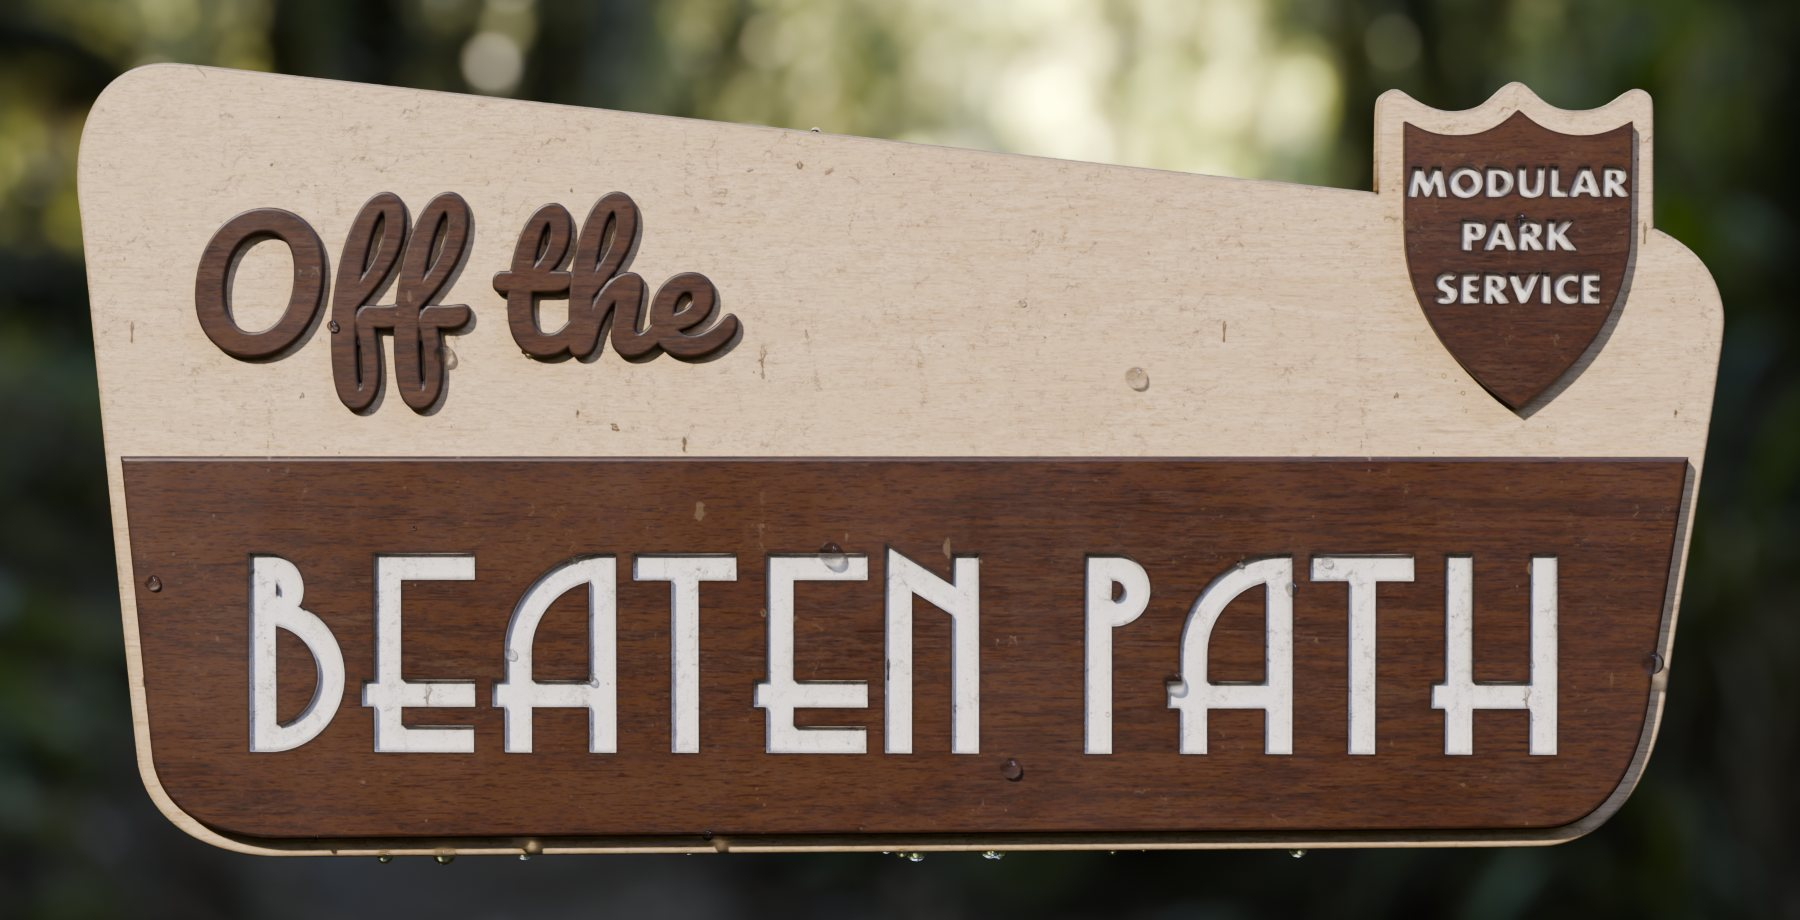
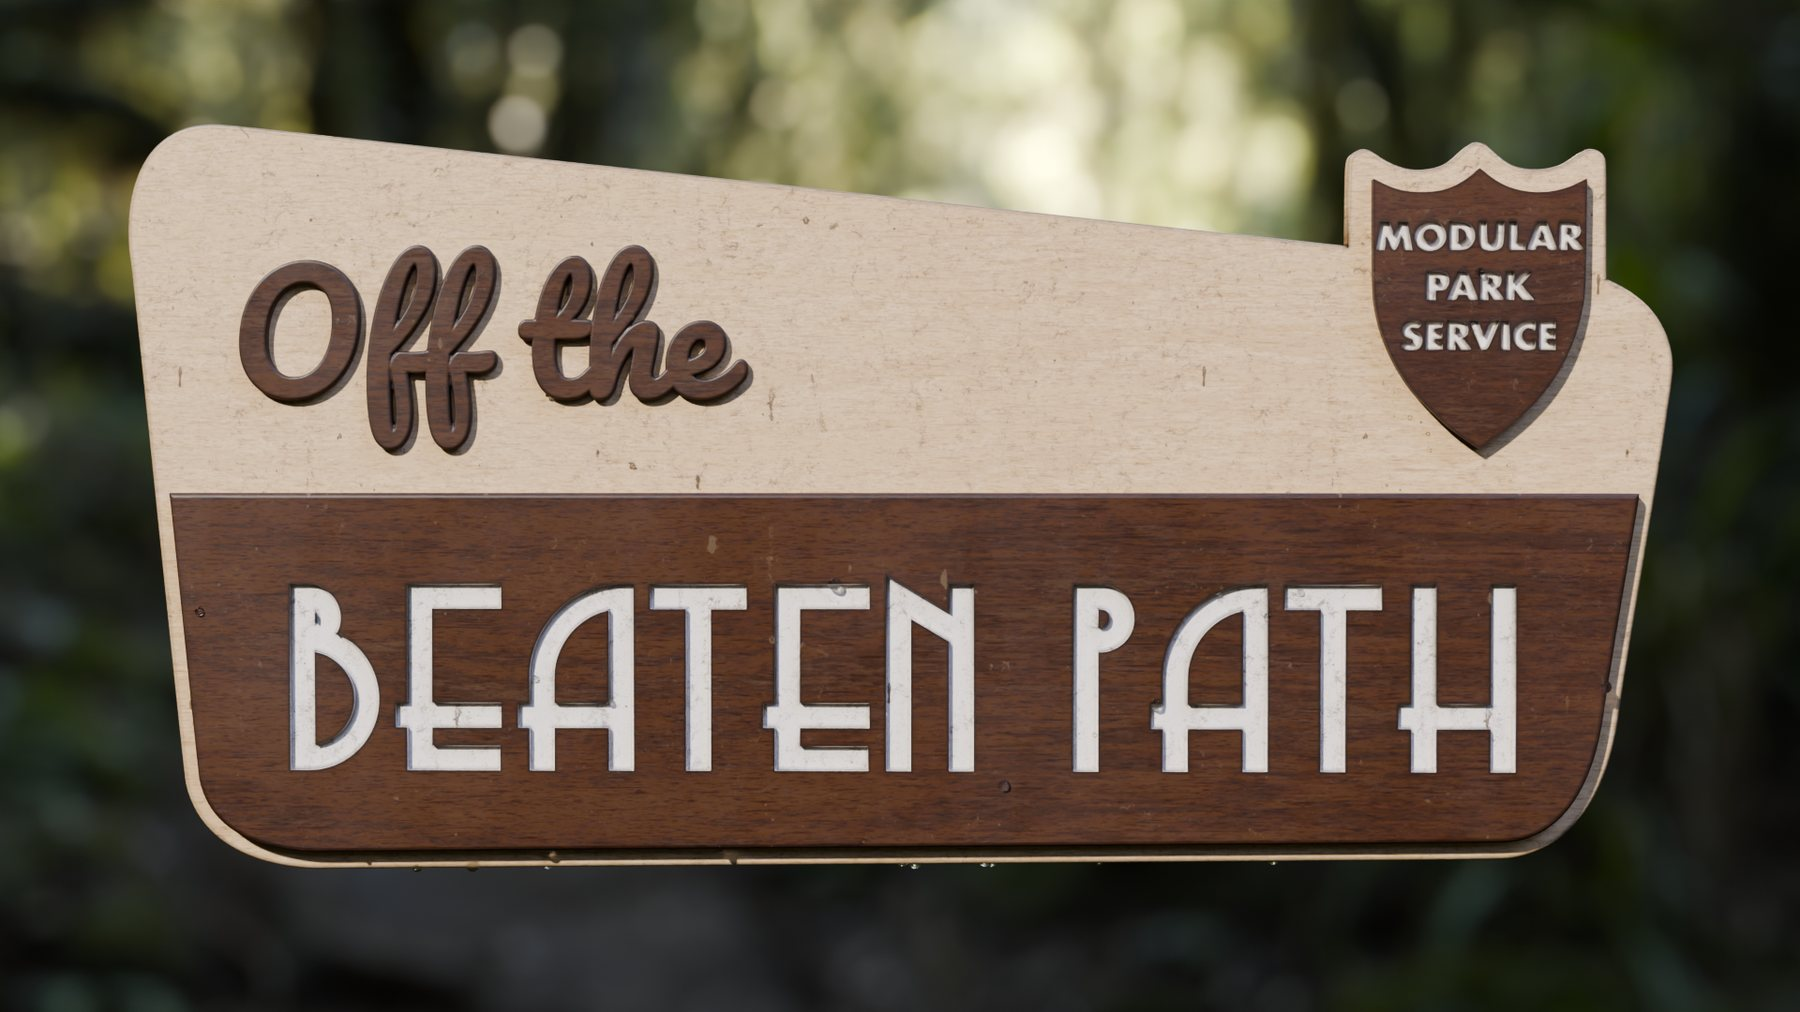
MPS: enable Blender sweep (9 frames, crossfaded), new neutral-pose still

diff --git a/assets/css/mps.css b/assets/css/mps.css
@@ -6,8 +6,8 @@ body{margin:0;background:var(--forest);color:var(--cream);font:1.05rem/1.65 var(
 
 .hero{position:relative;min-height:100vh;min-height:100svh;display:flex;align-items:center;justify-content:center;padding:1rem 1rem 3.5rem;line-height:0}
 .hero img,.hero canvas{display:block;width:min(100%,1400px);height:auto;max-height:calc(100svh - 5rem);object-fit:contain;
- -webkit-mask-image:linear-gradient(to right,transparent,#000 8%,#000 92%,transparent),linear-gradient(to bottom,transparent,#000 6%,#000 90%,transparent);
- -webkit-mask-composite:source-in;mask-image:linear-gradient(to right,transparent,#000 8%,#000 92%,transparent),linear-gradient(to bottom,transparent,#000 6%,#000 90%,transparent);mask-composite:intersect}
+ -webkit-mask-image:linear-gradient(to right,transparent,#000 6%,#000 94%,transparent),linear-gradient(to bottom,transparent,#000 5%,#000 94%,transparent);
+ -webkit-mask-composite:source-in;mask-image:linear-gradient(to right,transparent,#000 6%,#000 94%,transparent),linear-gradient(to bottom,transparent,#000 5%,#000 94%,transparent);mask-composite:intersect}
 .hero img,.hero canvas{will-change:transform;transform-origin:50% 50%}
 .hero{perspective:none;overflow:hidden}
 .scroll-cue{position:absolute;left:50%;bottom:1.25rem;transform:translateX(-50%);font-size:.72rem;letter-spacing:.22em;text-transform:uppercase;color:rgba(244,221,186,.6);text-decoration:none;line-height:1.4;text-align:center}

diff --git a/mps/index.html b/mps/index.html
@@ -3,7 +3,7 @@ layout: mps
 title: Modular Park Service
 description: Modules for VCV Rack, named for the national parks.
 sitemap: false
-sweep_frames: 0   # set to the number of frames in assets/images/mps/sweep/ (f_0000.webp ...) to enable the Blender sweep
+sweep_frames: 9   # set to the number of frames in assets/images/mps/sweep/ (f_0000.webp ...) to enable the Blender sweep
 ---
 {% assign modules = site.mps | sort: "order" %}
 <section class="hero" data-sweep-frames="{{ page.sweep_frames | default: 0 }}" data-sweep-path="{{ '/assets/images/mps/sweep/' | relative_url }}">
@@ -11,7 +11,7 @@ sweep_frames: 0   # set to the number of frames in assets/images/mps/sweep/ (f_0
        srcset="{{ '/assets/images/mps/sign-640.jpg' | relative_url }} 640w,
                {{ '/assets/images/mps/sign-1280.jpg' | relative_url }} 1280w,
                {{ '/assets/images/mps/sign-1800.jpg' | relative_url }} 1800w"
-       sizes="(min-width: 1300px) 1300px, 100vw" width="1800" height="920"
+       sizes="(min-width: 1300px) 1300px, 100vw" width="1920" height="1080"
        alt="Wooden park sign reading Off the Beaten Path, with the Modular Park Service shield">
   <a class="scroll-cue" href="#modules">Modules</a>
 </section>

diff --git a/assets/js/mps.js b/assets/js/mps.js
@@ -73,10 +73,12 @@
         c.width = imgs[0].naturalWidth; c.height = imgs[0].naturalHeight;
         c.className = sign.className; c.setAttribute('role', 'img'); c.setAttribute('aria-label', sign.alt);
         var g = c.getContext('2d');
+        var RANGE = 0.7;                       // fraction of the rendered sweep the pointer can reach
         function draw(x) {
-          var k = Math.round((x + 1) / 2 * (nFrames - 1));
-          k = Math.max(0, Math.min(nFrames - 1, k));
-          g.drawImage(imgs[k], 0, 0);
+          var u = (Math.max(-1, Math.min(1, x * RANGE)) + 1) / 2 * (nFrames - 1);
+          var k = Math.min(nFrames - 2, Math.floor(u)), f = u - k;
+          g.globalAlpha = 1; g.drawImage(imgs[k], 0, 0);
+          if (f > 0.001) { g.globalAlpha = f; g.drawImage(imgs[k + 1], 0, 0); g.globalAlpha = 1; }
         }
         draw(0);
         sign.replaceWith(c);
